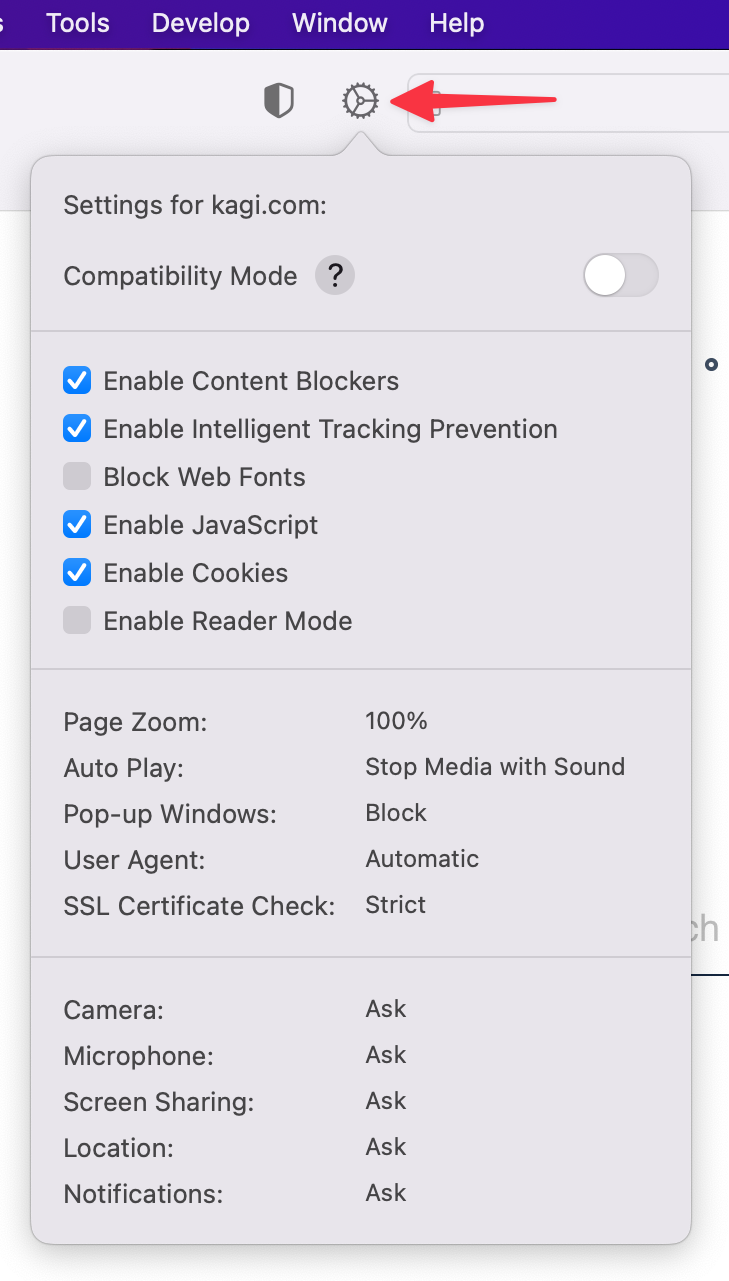
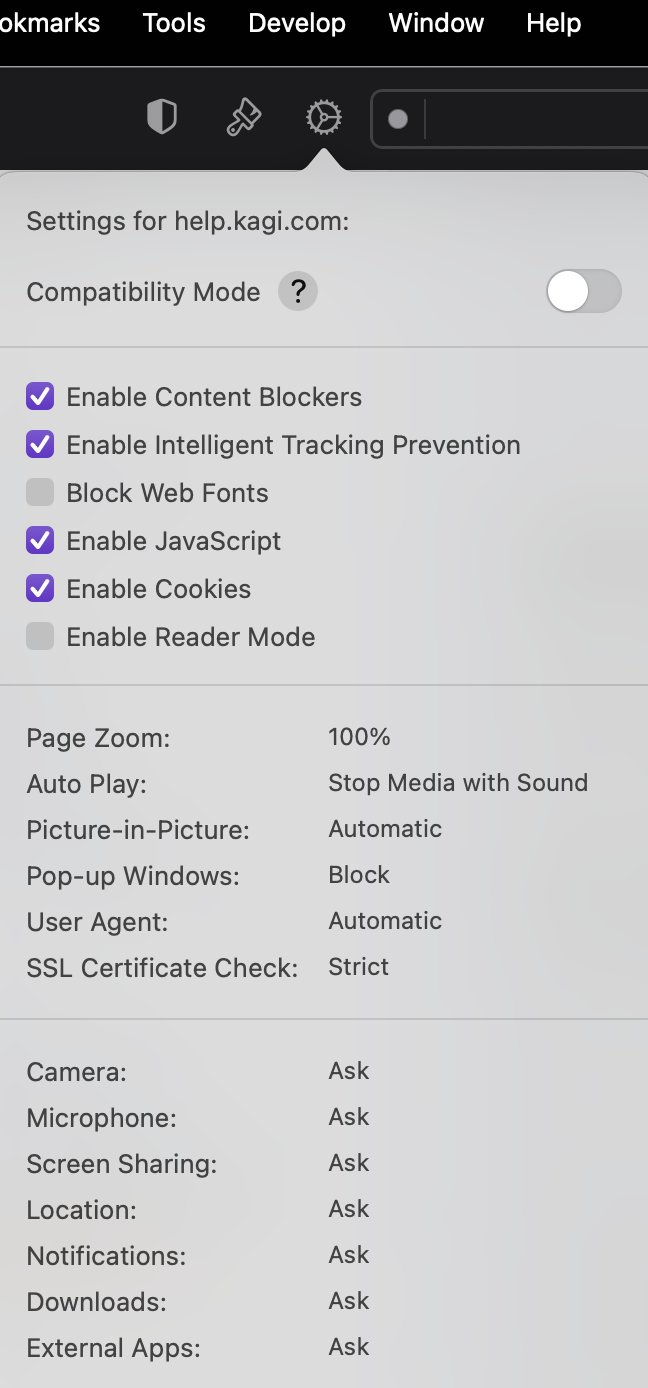
Update website settings screenshot and info
There were a couple items missing from the old screenshot and textual
description.

diff --git a/docs/orion/features/website-settings.md b/docs/orion/features/website-settings.md
@@ -17,6 +17,7 @@ You can control a number of settings related to the current website:
 
 - Enable or disable [Compatibility Mode](../troubleshooting/troubleshooting-webpage-issues.md#orion-compatibility-mode)
 - Enable or disable [Content Blockers](../privacy-and-security/protecting-privacy.md)
+- Enable or disable Intelligent Tracking Prevention
 - Block or unblock [Web Fonts](https://www.howtogeek.com/730585/what-is-a-web-font/)
 - Enable or disable [Cookies](https://en.wikipedia.org/wiki/HTTP_cookie)
 - Enable or disable [Reader Mode](reader-mode.md)
@@ -28,7 +29,7 @@ You can control a number of settings related to the current website:
  - Block or Allow **Pop-up Windows**
  - Set the [User Agent](https://developer.mozilla.org/en-US/docs/Web/HTTP/Headers/User-Agent) to a web browser or custom User Agent String of your choice
  - Set whether the check of the [SSL Certificate](https://www.cloudflare.com/learning/ssl/what-is-an-ssl-certificate/) for the website must be [Strict](https://www.techslang.com/definition/what-is-strict-ssl/)
- - Control whether the website is set to **Allow** access, **Deny** access, or **Ask** for access to your **Camera**, **Microphone**, **Screen Sharing**, **Location**, and **Notifications**
+ - Control whether the website is set to **Allow** access, **Deny** access, or **Ask** for access to your **Camera**, **Microphone**, **Screen Sharing**, **Location**, **Notifications**, **Downloads**, and **External Apps**
 
 <a name="iOS"></a>
 ## iOS Website Settings {#iOS}
